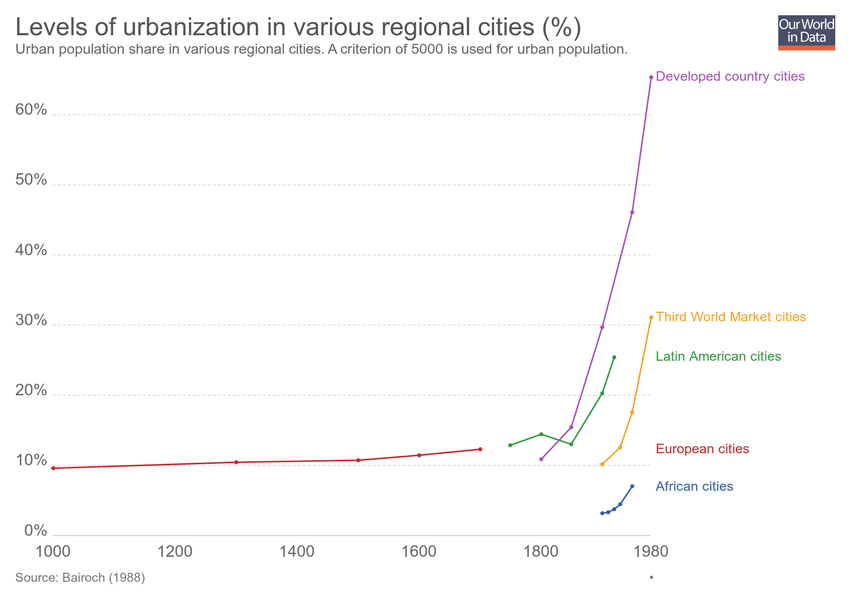
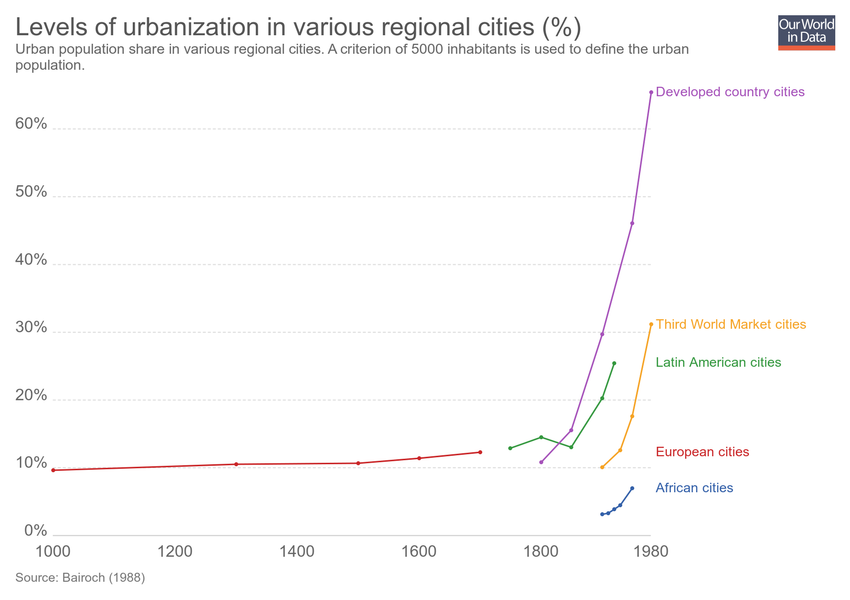
Updating chart levels-of-urbanization-in-various-regional-cities

diff --git a/grapher/levels-of-urbanization-in-various-regional-cities.html b/grapher/levels-of-urbanization-in-various-regional-cities.html
@@ -1,4 +1,4 @@
-<!doctype html><html><head><meta name="viewport" content="width=device-width, initial-scale=1" /><title>Levels of urbanization in various regional cities (%) - Our World in Data</title><meta name="description" content="Urban population share in various regional cities. A criterion of 5000 is used for urban population." /><link rel="canonical" href="https://ourworldindata.org/grapher/levels-of-urbanization-in-various-regional-cities" /><meta property="fb:app_id" content="1149943818390250" /><meta property="og:url" content="https://ourworldindata.org/grapher/levels-of-urbanization-in-various-regional-cities" /><meta property="og:title" content="Levels of urbanization in various regional cities (%)" /><meta property="og:description" content="Urban population share in various regional cities. A criterion of 5000 is used for urban population." /><meta property="og:image" content="https://ourworldindata.org/grapher/exports/levels-of-urbanization-in-various-regional-cities.png?v=1" /><meta property="og:image:width" content="850" /><meta property="og:image:height" content="600" /><meta property="og:site_name" content="Our World in Data" /><meta name="twitter:card" content="summary_large_image" /><meta name="twitter:site" content="@OurWorldInData" /><meta name="twitter:creator" content="@OurWorldInData" /><meta name="twitter:title" content="Levels of urbanization in various regional cities (%)" /><meta name="twitter:description" content="Urban population share in various regional cities. A criterion of 5000 is used for urban population." /><meta name="twitter:image" content="https://ourworldindata.org/grapher/exports/levels-of-urbanization-in-various-regional-cities.png?v=1" /><style>
+<!doctype html><html><head><meta name="viewport" content="width=device-width, initial-scale=1" /><title>Levels of urbanization in various regional cities (%) - Our World in Data</title><meta name="description" content="Urban population share in various regional cities. A criterion of 5000 inhabitants is used to define the urban population." /><link rel="canonical" href="https://ourworldindata.org/grapher/levels-of-urbanization-in-various-regional-cities" /><meta property="fb:app_id" content="1149943818390250" /><meta property="og:url" content="https://ourworldindata.org/grapher/levels-of-urbanization-in-various-regional-cities" /><meta property="og:title" content="Levels of urbanization in various regional cities (%)" /><meta property="og:description" content="Urban population share in various regional cities. A criterion of 5000 inhabitants is used to define the urban population." /><meta property="og:image" content="https://ourworldindata.org/grapher/exports/levels-of-urbanization-in-various-regional-cities.png?v=2" /><meta property="og:image:width" content="850" /><meta property="og:image:height" content="600" /><meta property="og:site_name" content="Our World in Data" /><meta name="twitter:card" content="summary_large_image" /><meta name="twitter:site" content="@OurWorldInData" /><meta name="twitter:creator" content="@OurWorldInData" /><meta name="twitter:title" content="Levels of urbanization in various regional cities (%)" /><meta name="twitter:description" content="Urban population share in various regional cities. A criterion of 5000 inhabitants is used to define the urban population." /><meta name="twitter:image" content="https://ourworldindata.org/grapher/exports/levels-of-urbanization-in-various-regional-cities.png?v=2" /><style>
         html, body {
             height: 100%;
             margin: 0;
@@ -20,8 +20,8 @@
         }
     </style><noscript><style>
                     figure { display: none !important; }
-                </style></noscript><link rel="stylesheet" href="https://ourworldindata.org/grapher/assets/commons.bundle.b9f051796dbbbb7e5139.css" /><link rel="preload" href="/grapher/data/variables/97685+97681+97687+97683+97689.json?v=1" as="fetch" crossorigin /></head><body class="singleChart"><figure data-grapher-src="/grapher/levels-of-urbanization-in-various-regional-cities"></figure><noscript id="fallback"><img src="/grapher/exports/levels-of-urbanization-in-various-regional-cities.svg" /><p>Interactive visualization requires JavaScript</p></noscript><script src="https://cdn.polyfill.io/v2/polyfill.min.js?features=es6,fetch"></script><script src="https://ourworldindata.org/grapher/assets/commons.bundle.b9f051796dbbbb7e5139.js"></script><script src="https://ourworldindata.org/grapher/assets/charts.bundle.b9f051796dbbbb7e5139.js"></script><script>
-        var jsonConfig = {"map":{"projection":"World","colorSchemeLabels":[],"colorSchemeValues":[],"customNumericColors":[],"customCategoryColors":{},"customCategoryLabels":{},"customHiddenCategories":{}},"tab":"chart","slug":"levels-of-urbanization-in-various-regional-cities","type":"LineChart","title":"Levels of urbanization in various regional cities (%)","xAxis":{"scaleType":"linear"},"yAxis":{"min":0,"scaleType":"linear"},"version":1,"subtitle":"Urban population share in various regional cities. A criterion of 5000 is used for urban population.","hasMapTab":false,"stackMode":"absolute","dimensions":[{"display":{"name":"African cities"},"property":"y","variableId":97685},{"display":{"name":"European cities"},"property":"y","variableId":97681},{"display":{"name":"Latin American cities"},"property":"y","variableId":97687},{"display":{"name":"Developed country cities"},"property":"y","variableId":97683},{"display":{"name":"Third World Market cities"},"property":"y","variableId":97689}],"isAutoSlug":true,"hasChartTab":true,"isPublished":true,"selectedData":[{"index":0,"entityId":34678},{"index":1,"entityId":34678},{"index":2,"entityId":34678},{"index":3,"entityId":34678},{"index":4,"entityId":34678}],"addCountryMode":"change-country","hideTitleAnnotation":true,"id":2888};
+                </style></noscript><link rel="stylesheet" href="https://ourworldindata.org/grapher/assets/commons.bundle.b9f051796dbbbb7e5139.css" /><link rel="preload" href="/grapher/data/variables/97685+97681+97687+97683+97689.json?v=2" as="fetch" crossorigin /></head><body class="singleChart"><figure data-grapher-src="/grapher/levels-of-urbanization-in-various-regional-cities"></figure><noscript id="fallback"><img src="/grapher/exports/levels-of-urbanization-in-various-regional-cities.svg" /><p>Interactive visualization requires JavaScript</p></noscript><script src="https://cdn.polyfill.io/v2/polyfill.min.js?features=es6,fetch"></script><script src="https://ourworldindata.org/grapher/assets/commons.bundle.b9f051796dbbbb7e5139.js"></script><script src="https://ourworldindata.org/grapher/assets/charts.bundle.b9f051796dbbbb7e5139.js"></script><script>
+        var jsonConfig = {"id":2888,"map":{"projection":"World","colorSchemeLabels":[],"colorSchemeValues":[],"customNumericColors":[],"customCategoryColors":{},"customCategoryLabels":{},"customHiddenCategories":{}},"tab":"chart","slug":"levels-of-urbanization-in-various-regional-cities","type":"LineChart","title":"Levels of urbanization in various regional cities (%)","xAxis":{"scaleType":"linear"},"yAxis":{"min":0,"scaleType":"linear"},"version":2,"subtitle":"Urban population share in various regional cities. A criterion of 5000 inhabitants is used to define the urban population.","hasMapTab":false,"stackMode":"absolute","dimensions":[{"display":{"name":"African cities"},"property":"y","variableId":97685},{"display":{"name":"European cities"},"property":"y","variableId":97681},{"display":{"name":"Latin American cities"},"property":"y","variableId":97687},{"display":{"name":"Developed country cities"},"property":"y","variableId":97683},{"display":{"name":"Third World Market cities"},"property":"y","variableId":97689}],"hasChartTab":true,"isPublished":true,"selectedData":[{"index":0,"entityId":34678},{"index":1,"entityId":34678},{"index":2,"entityId":34678},{"index":3,"entityId":34678},{"index":4,"entityId":34678}],"addCountryMode":"change-country","hideTitleAnnotation":true};
         var figure = document.getElementsByTagName("figure")[0];
         try {
             window.App = {};
